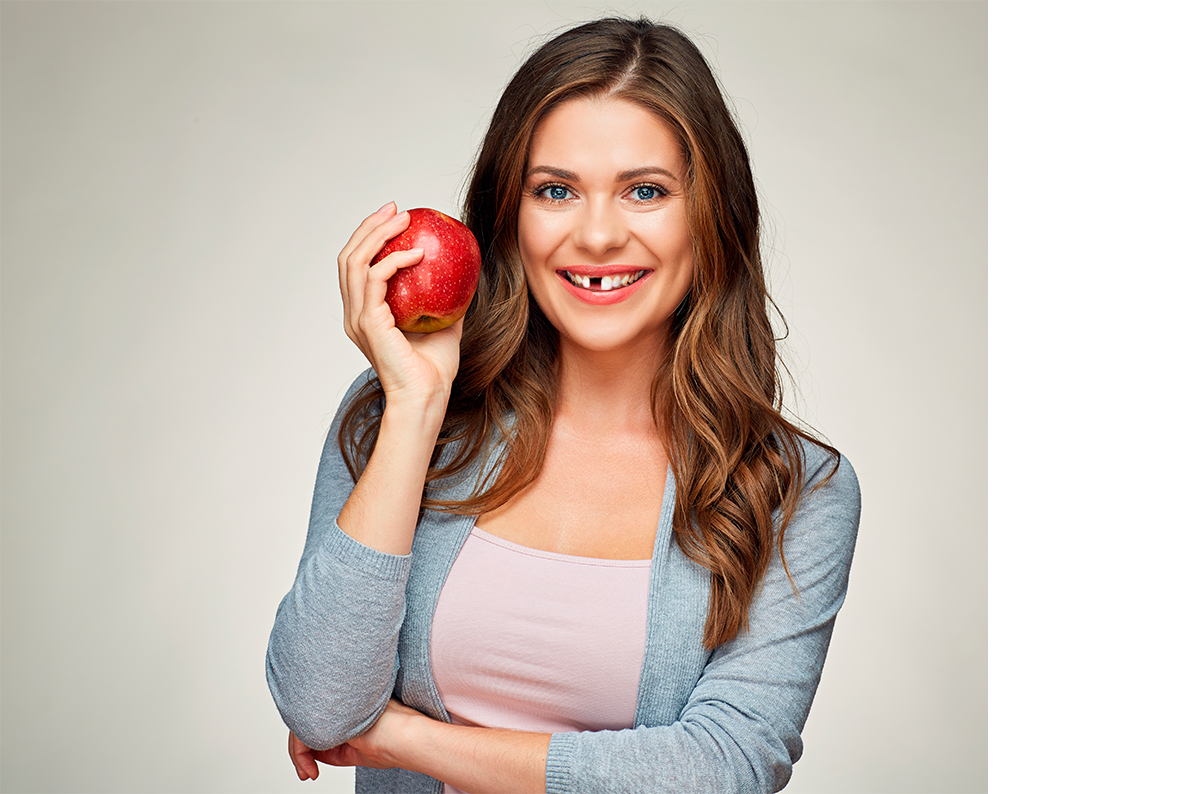
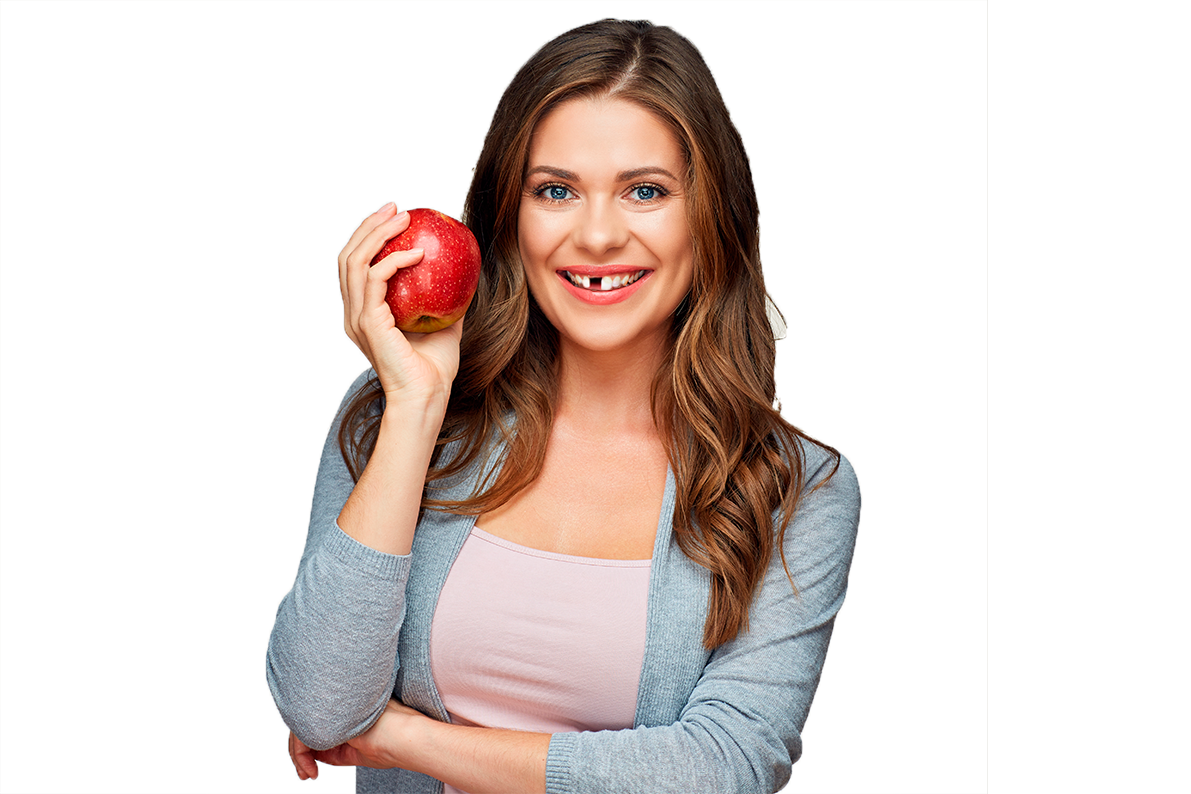
end

diff --git a/sass/style.sass b/sass/style.sass
@@ -5,15 +5,18 @@ body
   font-family: 'Roboto', serif
 .container
   display: flex
-  width: 1140px
+  width: 1400px
   align-items: center
-  margin: auto
+  margin:
+    left: 155px
+    right: 115px
 .main
   background-color: #c3f0f3
+  width: 85%
   &-text
     margin:
       top: 183px
-      bottom: 79px
+      bottom: 80px
     width: 750px
     $color:#7c6db0
     &__title
@@ -45,7 +48,9 @@ body
         font-size: 22px
     &-buttons
       display: flex
-      margin-bottom: 80px
+  &-img
+    transform: translate(-180px,+11px)
+
 $color_btn:#01c4e0
 $w: 360px
 $h: 80px

diff --git a/css/style.css b/css/style.css
@@ -9,17 +9,19 @@ body {
 
 .container {
   display: flex;
-  width: 1140px;
+  width: 1400px;
   align-items: center;
-  margin: auto;
+  margin-left: 155px;
+  margin-right: 115px;
 }
 
 .main {
   background-color: #c3f0f3;
+  width: 85%;
 }
 .main-text {
   margin-top: 183px;
-  margin-bottom: 79px;
+  margin-bottom: 80px;
   width: 750px;
 }
 .main-text__title {
@@ -53,7 +55,9 @@ body {
 }
 .main-text-buttons {
   display: flex;
-  margin-bottom: 80px;
+}
+.main-img {
+  transform: translate(-180px, 11px);
 }
 
 .search {
